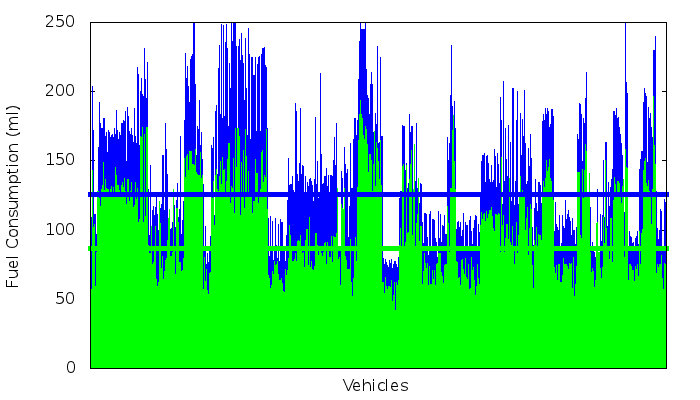
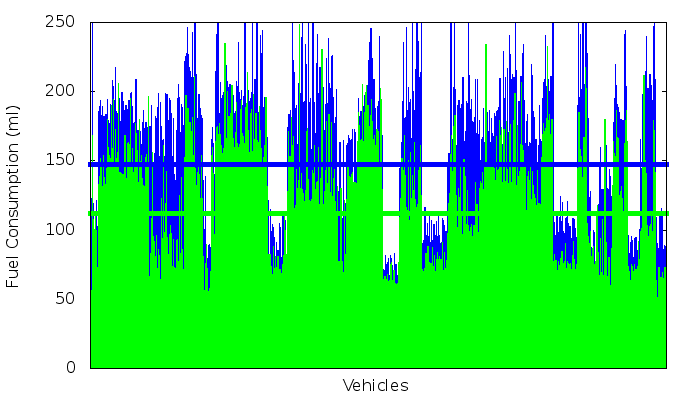
stuff

diff --git a/Article/src/TestResults.tex b/Article/src/TestResults.tex
@@ -137,11 +137,7 @@ We see the same results when 50 \% of the vehicles use \tech.
 \end{comment}
 
 We see this fuel reduction is because the vehicles accelerate less rapidly. 
-<<<<<<< HEAD
-Figure~\ref{fig:TestResults:distance100} shows the travel distance as a function over time when all vehicles use \tech. 
-=======
 Figure~\ref{fig:TestResults:distance100} shows the travel distance as a function over time when all vehicles use \tech, and Figure~\ref{fig:TestResults:speed100} plots the driving speed as a function over time.
->>>>>>> 3a1be5a782b4c37222fa86b8603094667a4d36ca
 We see that these curves are much more smooth, because they avoid stopping, and hence has to accelerate less.
 Some vehicles still have to stop, partly because it is impossible to drive the distance between the traffic lights in the amount of time left before it turns green, and partly because there are other vehicles blocking their path.
 \begin{figure}[htb]
@@ -149,14 +145,11 @@ Some vehicles still have to stop, partly because it is impossible to drive the d
 \caption{Travel distance for simulated data when 100\% use \tech}
 \label{fig:TestResults:distance100}
 \end{figure}
-<<<<<<< HEAD
-=======
 \begin{figure}[htb]
 \includegraphics[width=0.5\textwidth]{../images/tp0c1_0/speedControlled100.png}
 \caption{Driving speed for simulated data when 100\% use \tech}
 \label{fig:TestResults:speed100}
 \end{figure}
->>>>>>> 3a1be5a782b4c37222fa86b8603094667a4d36ca
 
 We can therefore conclude that in the tested use case, we see a significate reduction in fuel consumption even when it is only implemented in a small subset of the vehicles. 
 Moreover, vehicles using \tech does not have a negative influence the other fuel consumption of the vehicles.
@@ -176,16 +169,6 @@ This is mostly due to the fact that vehicles do not make a full stop at traffic 
 \end{figure}
 
 \subsection{Congestion levels}
-<<<<<<< HEAD
-
-Normal traffic usualy have some peak periods where the traffic is higher than normal \cite{Vejdir}. In order to test the effect of the system with different congestion levels we repeated the simmulation while changing the rate withs vehicles are spwaning. The effect of the fuel saved can be seen in Figure \ref{}. It is clear that the system loses some effect when the congestion level starts to rise. Traffic move slower through the network and lines of blocked vehicles build op at the traffic lights. This reduce the effect of the systems as it can no longer predict an accurate distance to the trafficlight.
-
-In Figure \ref{} we see the average time of all vehicles driving in the simulation compaired to the diffrent congestion levels. With low congestion there is almoste no diffrence in the time and the percentance of vehicles using the system. In the high congestion levels the systems shows an positive effect with 50\% or more users. In a congested network large queues of vehicles build up. A large portion of the time a trafficligh is green is wasted on the time it takes to get the queue moving. A queue of vehicles accelerrating spend less time gaining speed if they are already moving slowly. This is likly the reasion that the average time of all vehicles improve if enoth are using the system.
-
-
-
-
-=======
 Normal traffic usualy have peak periods where the traffic is higher than normal \cite{Vejdir}. 
 In order to test the effect of the system with different congestion levels we repeated the simulation while changing the rate with which vehicles are spwaning. 
 The fuel consumption at different penetration rates and congestion levels can be seen in Figure \ref{fig:TestResults:congestionFuel}. 
@@ -213,4 +196,3 @@ This is likly the reasion that the average time of all vehicles improve if enoug
 
 
 
->>>>>>> 3a1be5a782b4c37222fa86b8603094667a4d36ca

diff --git a/AAKPresentation/src/Resultater.tex b/AAKPresentation/src/Resultater.tex
@@ -7,59 +7,58 @@
 \end{frame}
 
 \begin{frame}{Distance - Simuleret standardkørsel}
-\includegraphics[width=1\textwidth]{../images/tp0/distanceUncontrolled0.png}
+\includegraphics[width=1\textwidth]{../images/tp0c1_0/distanceUncontrolled0.png}
 
 131 biler uden systemet
 \end{frame}
 
 \begin{frame}{Distance - 90 \% uden systemet}
-\includegraphics[width=1\textwidth]{../images/tp0/distanceUncontrolled10.png}
+\includegraphics[width=1\textwidth]{../images/tp0c1_0/distanceUncontrolled10.png}
 
 115 biler uden systemet
 \end{frame}
 
 \begin{frame}{Distance - 10 \% med systemet}
-\includegraphics[width=1\textwidth]{../images/tp0/distanceControlled10.png}
+\includegraphics[width=1\textwidth]{../images/tp0c1_0/distanceControlled10.png}
 
 16 biler med systemet
 \end{frame}
 
 \begin{frame}{Brændsstofforbrug - Simuleret standardkørsel}
-\includegraphics[width=1\textwidth]{../images/tp0/fuelRouteUncontrolled0.png}
+\includegraphics[width=1\textwidth]{../images/tp0c1_0/fuelRouteUncontrolled0.png}
 
 131 biler uden systemet
 \end{frame}
 
 
 \begin{frame}{Brændsstofforbrug - 90 \% uden systemet}
-\includegraphics[width=1\textwidth]{../images/tp0/fuelRouteUncontrolled10.png}
+\includegraphics[width=1\textwidth]{../images/tp0c1_0/fuelRouteUncontrolled10.png}
 
 115 biler uden systemet
 \end{frame}
 
 \begin{frame}{Brændsstofforbrug - 10 \% med systemet}
-\includegraphics[width=1\textwidth]{../images/tp0/fuelRouteControlled10.png}
+\includegraphics[width=1\textwidth]{../images/tp0c1_0/fuelRouteControlled10.png}
 
 16 biler med systemet
 \end{frame}
 
 \begin{frame}{Brændsstofforbrug - 100 \% med systemet}
-\includegraphics[width=1\textwidth]{../images/tp0/fuelRouteControlled100.png}
+\includegraphics[width=1\textwidth]{../images/tp0c1_0/fuelRouteControlled100.png}
 
 131 biler med systemet
 \end{frame}
 
 \begin{frame}{Brændsstofforbrug - Sammenligning}
-\includegraphics[width=1\textwidth]{../images/tp0/combinedFuel.png}
+\includegraphics[width=1\textwidth]{../images/tp0c1_0/combinedFuel.png}
 \end{frame}
 
-\begin{frame}{Gennemsnitlig rejsetid for alle ruter}
-\includegraphics[width=1\textwidth]{../images/tp0/combinedTime.png}
-\end{frame}
-\begin{frame}{Gennemsnitlig rejsetid på Hobrovej}
-\includegraphics[width=1\textwidth]{../images/tp0/combinedRouteTime.png}
+\begin{frame}{Gennemsnitlig brændstofforbrug for alle biler}
+\includegraphics[width=1\textwidth]{../images/fuelCongestion.png}
 \end{frame}
 
-
+\begin{frame}{Gennemsnitlig rejsetid for alle biler}
+\includegraphics[width=1\textwidth]{../images/timeCongestion.png}
+\end{frame}
 
 

diff --git a/AAKPresentation/src/Konklusion.tex b/AAKPresentation/src/Konklusion.tex
@@ -16,7 +16,7 @@ Bilistens rute er kendt
 
 \end{frame}
 
-\begin{frame}{Økonomi}%TODO: Rename
+\begin{frame}{Forventede besparelse på brændstof}%TODO: Rename
 Antaget
 \begin{itemize}
 \item 20.000 i årsdøgntrafik
@@ -41,18 +41,14 @@ Kr. sparet om året på udvalgte stykke af Hobrovej
 	\item Log af traffik lysenes signalindstillinger
 	\item Trængselsestimater (OD matrix)
 	\end{itemize}
-	\begin{itemize}
-	\item \textbf{Korrekt estimat af forventet besparelse inden for en uge} %TODO: For kort?
-	\end{itemize}
+	\hspace{4mm}$\Longrightarrow$ \textbf{Nøjagtig simulering af forventet besparelse}
 \vspace{5mm}
 
 2. Smartphone applikation
 	\begin{itemize}
 	\item Adgang til læsning af den aktuelle signalsætning
 	\end{itemize}
-	\begin{itemize}
-	\item \textbf{Prototype i løbet af foråret 2013}
-	\end{itemize}
+	\hspace{4mm}$\Longrightarrow$ \textbf{Prototype i løbet af foråret 2013}
 \end{frame}
 
 \begin{frame}{Konklusion}

diff --git a/AAKPresentation/src/Motivation.tex b/AAKPresentation/src/Motivation.tex
@@ -112,19 +112,6 @@ Ulemper
 
 \begin{comment}
 \begin{frame}{Relateret arbejde}
-
-SignalGuru
-\begin{itemize}
-\item Smartphone applikation
-\item Anbefaler hastighed for at undgå at stoppe for et rødt lys
-\item Indsamler information om trafiklys via kameraet
-\begin{itemize}
-\item Kræver dermed højere penetrations rate
-\end{itemize}
-\item Sparer ca. 20 \% brændstof
-\item Ikke kommerciel endnu
-\end{itemize}
-
 Efter vores kendskab
 \begin{itemize}
 \item SignalGuru

diff --git a/imgGen.py b/imgGen.py
@@ -1,6 +1,6 @@
 import os, subprocess, sys, random
 
-fuelRouteYMax = "200"
+fuelRouteYMax = "250"
 fuelTotalYMax = "250"
 distanceYMax = "1600"
 speedMaxY = "80"
